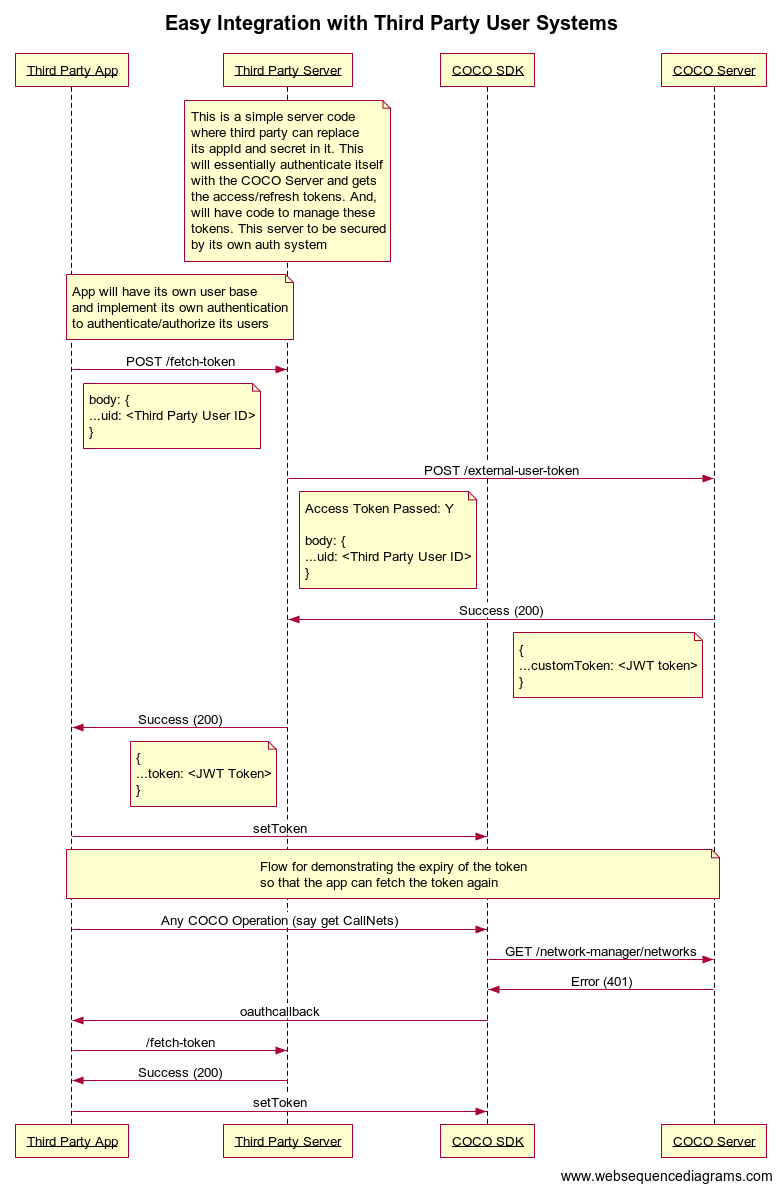
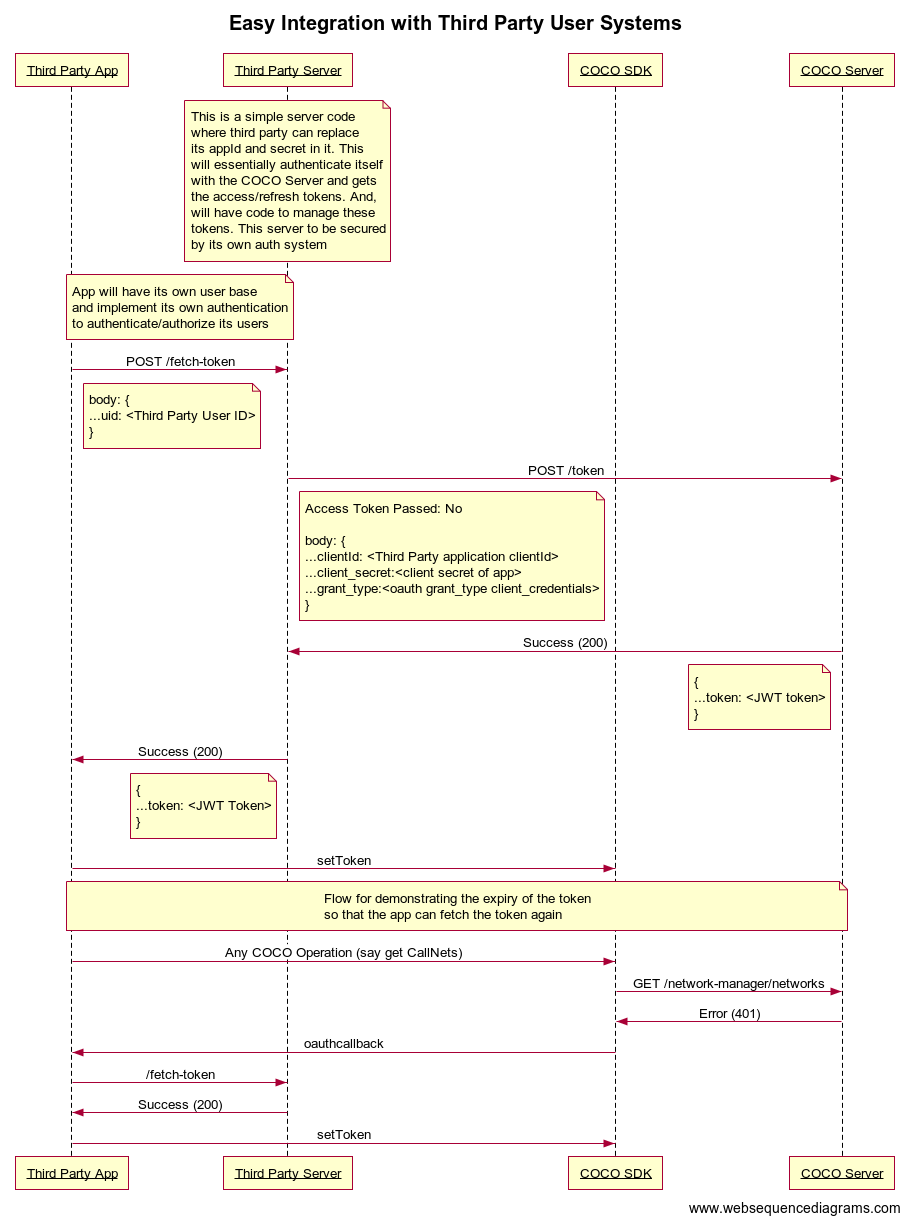
Add c2c app flow

diff --git a/source/manage_the_buzz_for_developers/applications_and_user_system_manage_the_buzz/value_added_service_extensions_for_coco_solutions/cloud_to_cloud_apps/introduction_to_cloud_to_cloud_apps.rst b/source/manage_the_buzz_for_developers/applications_and_user_system_manage_the_buzz/value_added_service_extensions_for_coco_solutions/cloud_to_cloud_apps/introduction_to_cloud_to_cloud_apps.rst
@@ -15,6 +15,7 @@ Integration of COCO Home with Google/Alexa Home.
 
 Flow
 ++++
-<Websequence diagram for c2c app flow to be added>
+
+.. image:: ../../../../_static/C2CAppFlow.png
 
 .. sectionauthor:: Narendra
